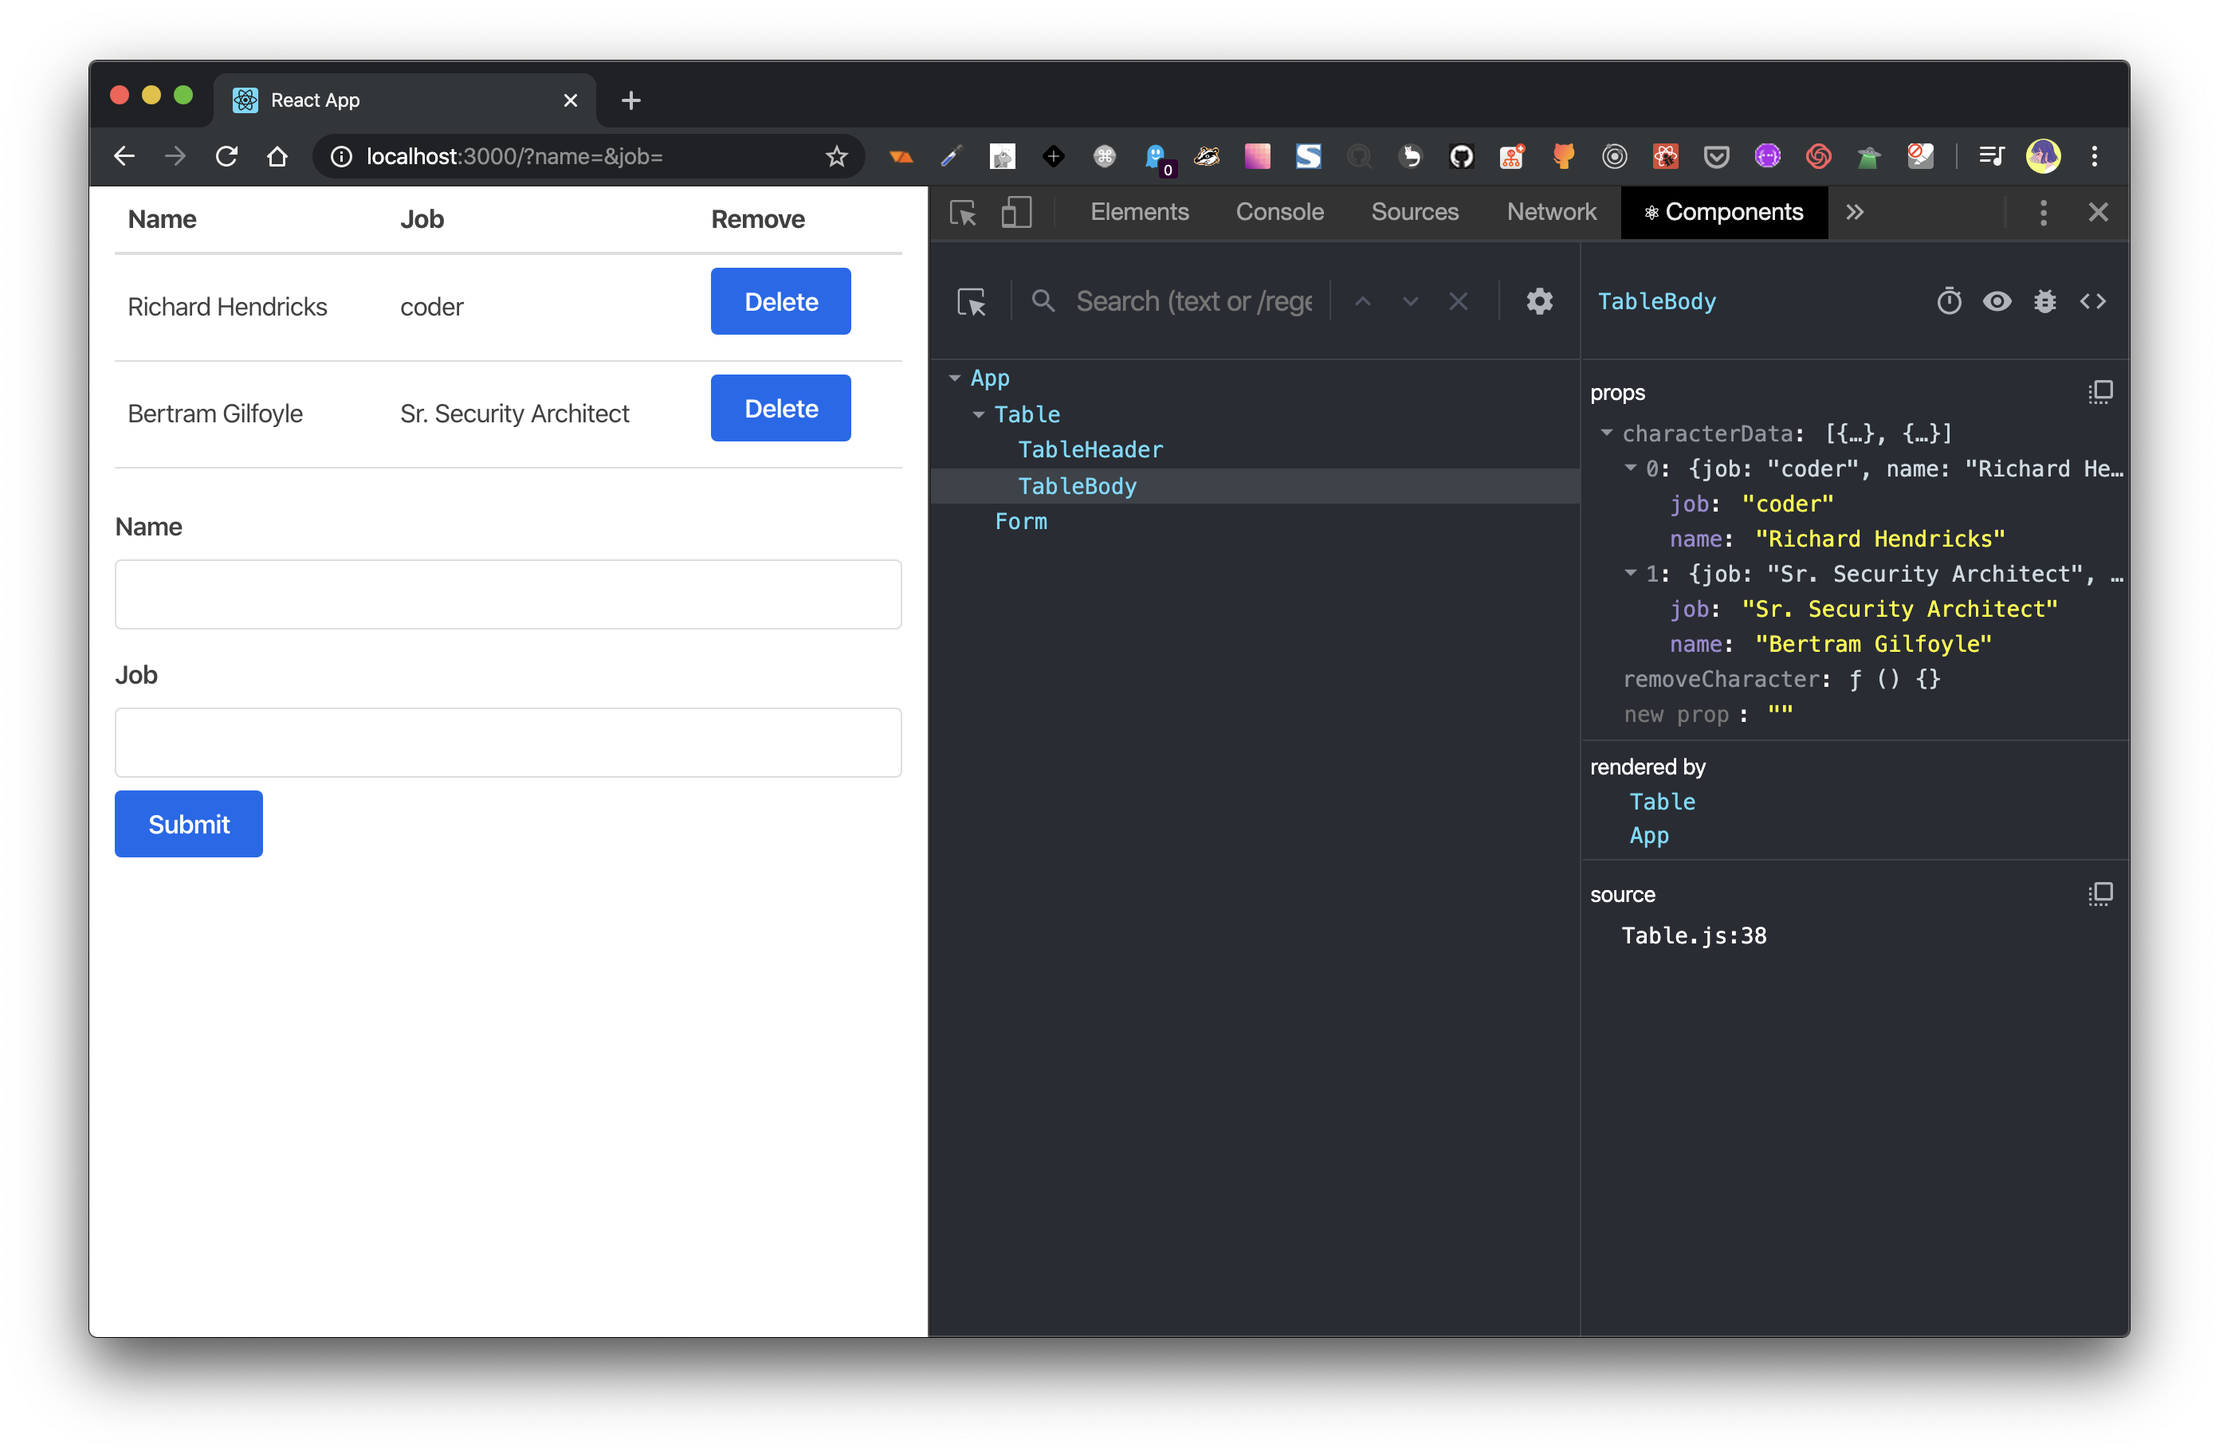
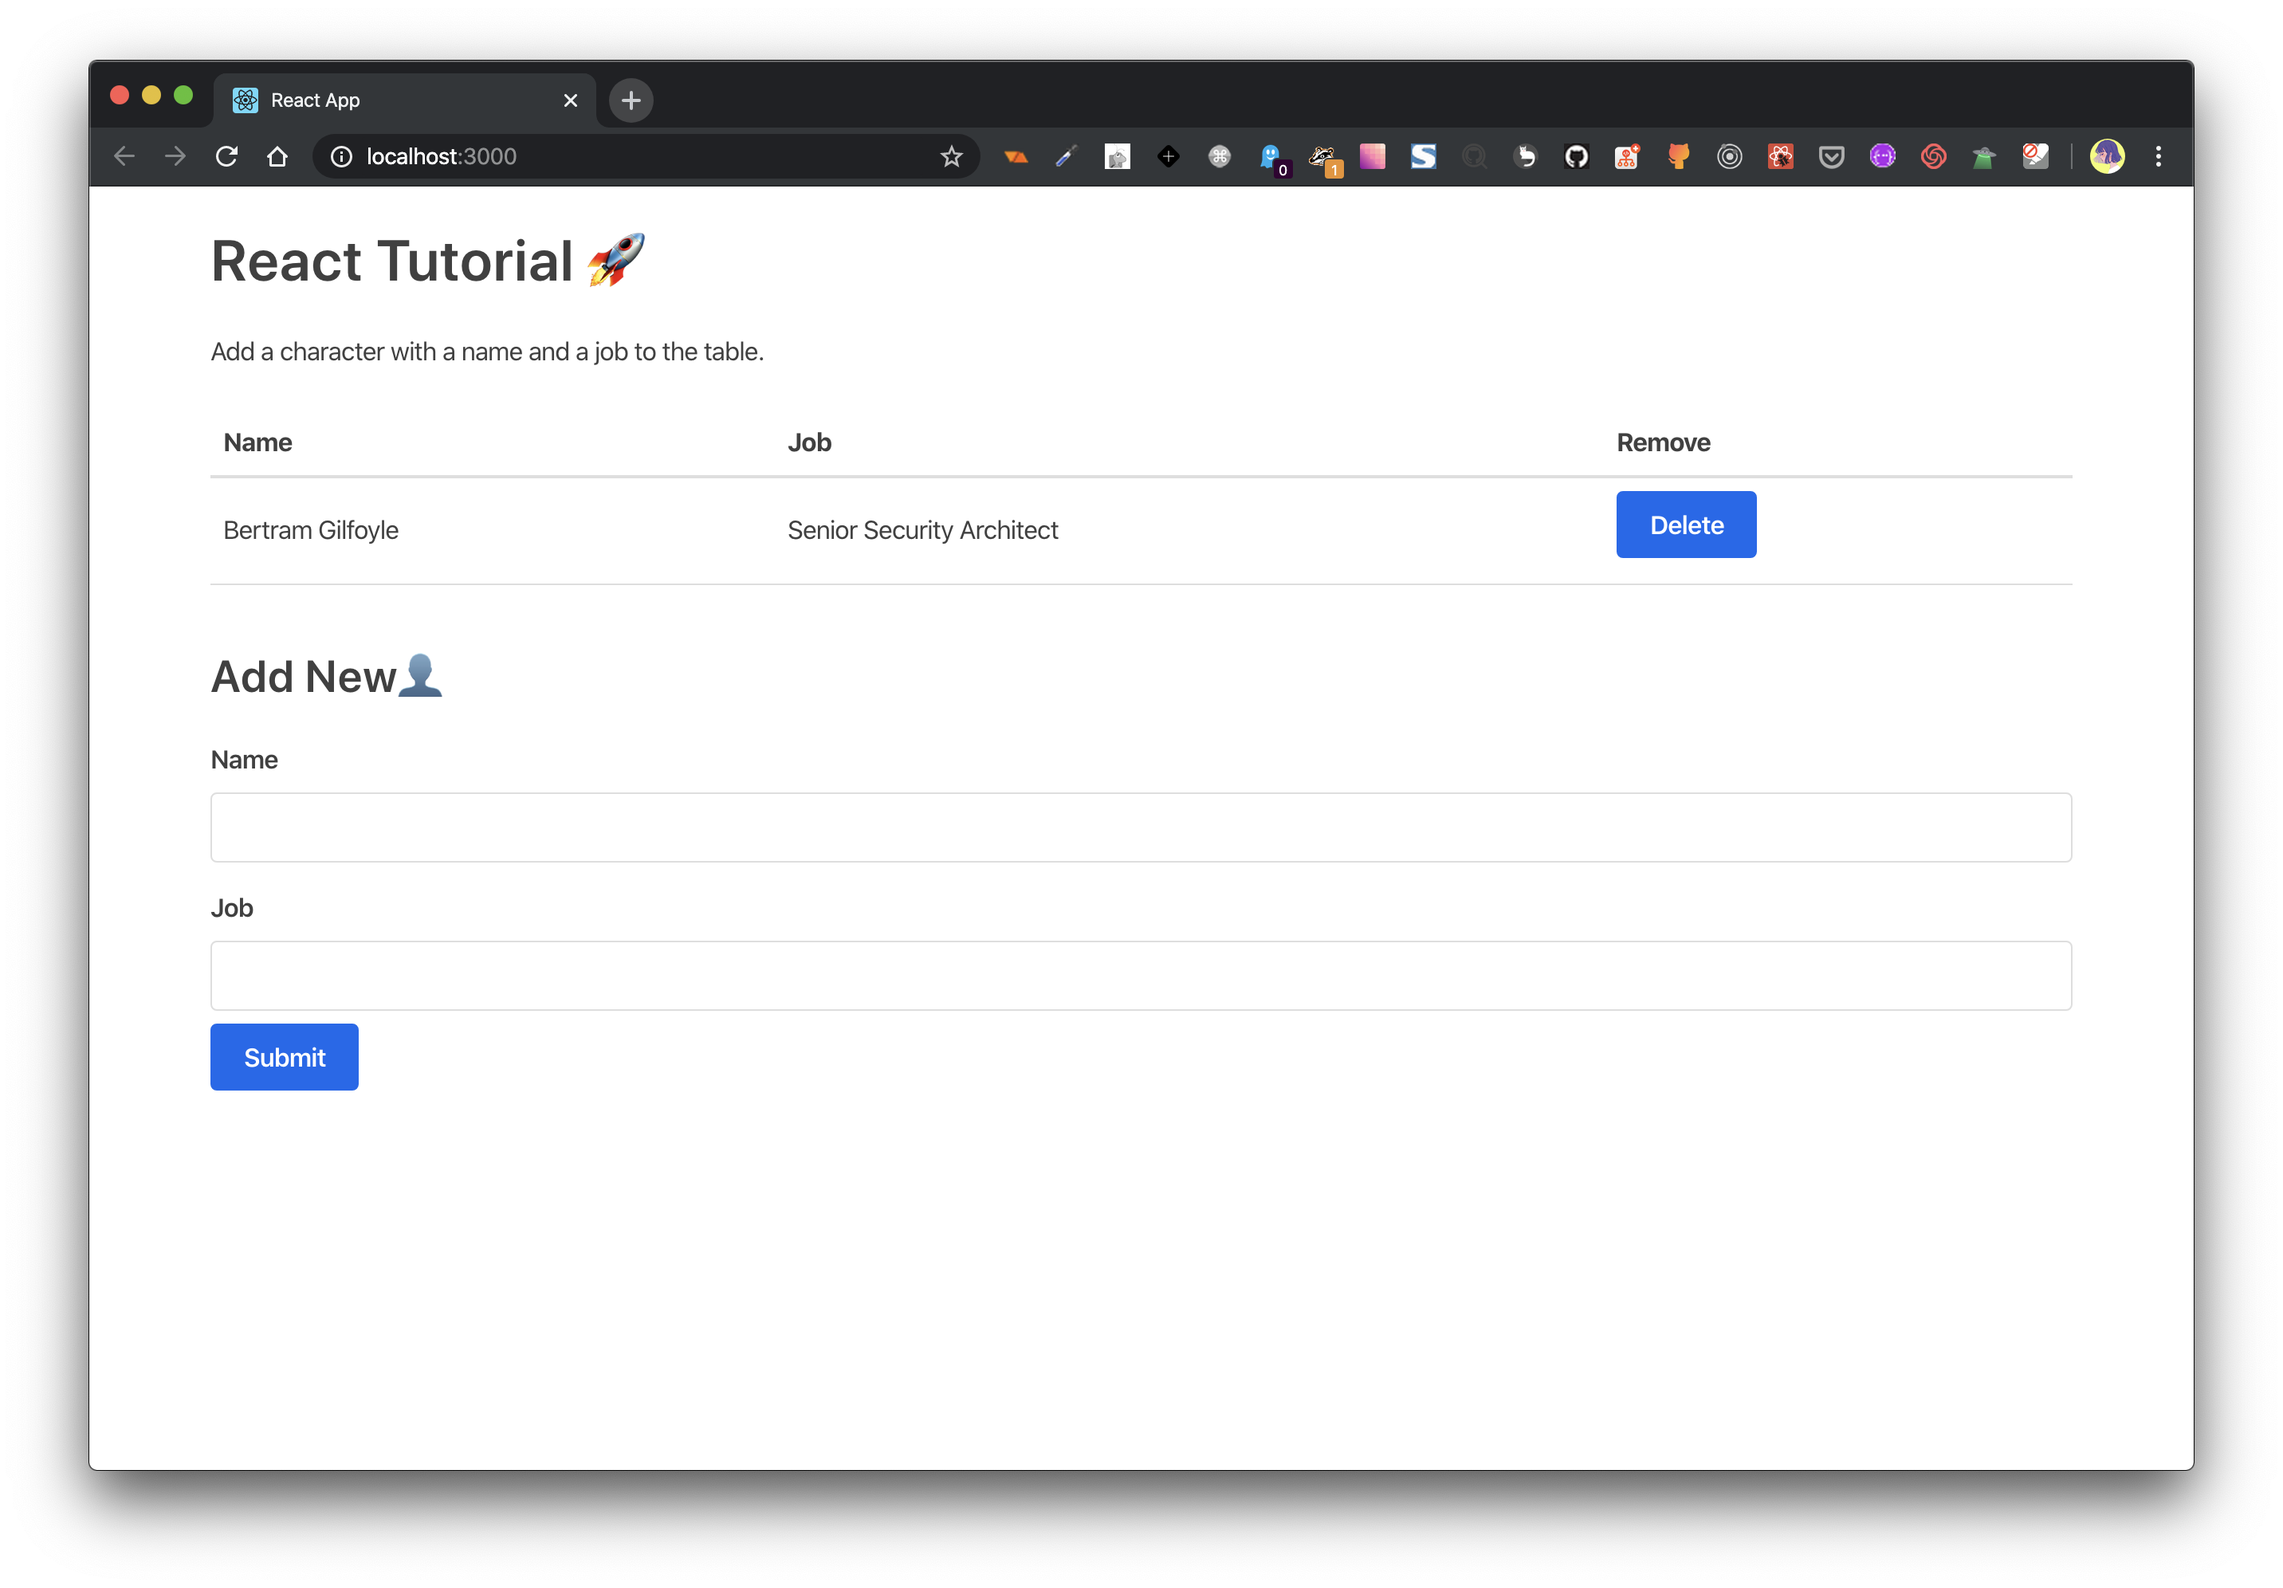
feat: minor update to UI and README.md

diff --git a/src/App.js b/src/App.js
@@ -26,15 +26,27 @@ class App extends Component {
 
     return (
       <div className='container'>
+        <h1>
+          React Tutorial{' '}
+          <span role='img' aria-label='rocket'>
+            🚀
+          </span>
+        </h1>
+        <p>Add a character with a name and a job to the table.</p>
         <Table
           characterData={characters}
           removeCharacter={this.removeCharacter}
         />
+        <h3>
+          Add New
+          <span role='img' aria-label='silhouette of person'>
+            👤
+          </span>
+        </h3>
         <Form handleSubmit={this.handleSubmit} />
       </div>
     );
   }
 }
-
 
 export default App;

diff --git a/src/index.js b/src/index.js
@@ -1,6 +1,6 @@
 import React from 'react';
 import ReactDOM from 'react-dom';
-import App from './Api'
+import App from './App'
 import './index.css';
 
 
